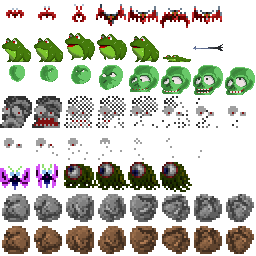
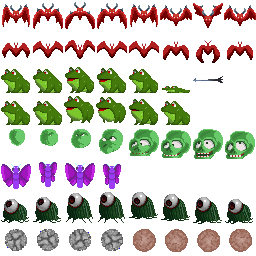
小エネミーの差し替え

diff --git a/Solution/AceLiveMonitor/EnemyTreeNuts.cpp b/Solution/AceLiveMonitor/EnemyTreeNuts.cpp
@@ -45,7 +45,7 @@ void EnemyTreeNuts::setSynchronousData( unsigned char type, int camera_pos ) con
 	switch ( _act ) {
 	case ACTION_FADE_IN:
 	{
-		const int ANIM[ ] = { 16, 17, 18, 19, 20, 21 };
+		const int ANIM[ ] = { 32, 33, 34, 35, 36, 37, 38, 39 };
 		int anim_size = sizeof( ANIM ) / sizeof( ANIM[ 0 ] );
 		int idx = getActCount( ) / WAIT_ANIM_TIME;
 		if ( idx >= anim_size ) {
@@ -56,7 +56,7 @@ void EnemyTreeNuts::setSynchronousData( unsigned char type, int camera_pos ) con
 		break;
 	case ACTION_MOVE:
 	{
-		const int ANIM[ ] = { 21, 22, 23, 22 };
+		const int ANIM[ ] = { 37, 38, 39, 38 };
 		int anim_size = sizeof( ANIM ) / sizeof( ANIM[ 0 ] );
 		data->addObject( area, type, ANIM[ getActCount( ) / WAIT_ANIM_TIME % anim_size ], attribute, x, y );
 	}

diff --git a/Solution/AceLiveMonitor/EnemyFlog.cpp b/Solution/AceLiveMonitor/EnemyFlog.cpp
@@ -1,8 +1,8 @@
 #include "EnemyFlog.h"
 #include "SynchronousData.h"
 
-const int WAIT_ANIM_TIME = 6;
-const int JUMP_TIME = WAIT_ANIM_TIME * 5;
+const int WAIT_ANIM_TIME = 5;
+const int JUMP_TIME = WAIT_ANIM_TIME * 6;
 const int MAX_HP = 2;
 const int JUMP_POWER = -5;
 const int MOVE_SPEED = 2;
@@ -31,7 +31,7 @@ void EnemyFlog::act( ) {
 
 void EnemyFlog::setSynchronousData( unsigned char type, int camera_pos ) const {
 	const int ANIM[ ] = {
-		8, 9, 10, 11, 12
+		24, 25, 26, 27, 28, 29
 	};
 	int anim_size = sizeof( ANIM ) / sizeof( ANIM[ 0 ] );
 	

diff --git a/Solution/AceLiveMonitor/EnemyStone.cpp b/Solution/AceLiveMonitor/EnemyStone.cpp
@@ -1,7 +1,7 @@
 #include "EnemyStone.h"
 #include "SynchronousData.h"
 
-static const int WAIT_ANIM_TIME = 5;
+static const int WAIT_ANIM_TIME = 2;
 static const int MOVE_SPEED = 5;
 static const int MAX_HP = 2;
 
@@ -27,7 +27,7 @@ void EnemyStone::act( ) {
 
 void EnemyStone::setSynchronousData( unsigned char type, int camera_pos ) const {
 	const int ANIM[ ] = {
-		48, 49, 50, 51, 52, 53, 54, 55
+		56, 57, 58, 59
 	};
 	int anim_size = sizeof( ANIM ) / sizeof( ANIM[ 0 ] );
 	

diff --git a/Solution/AceLiveMonitor/EnemyArcherAttack.cpp b/Solution/AceLiveMonitor/EnemyArcherAttack.cpp
@@ -31,5 +31,5 @@ void EnemyArcherAttack::setSynchronousData( unsigned char type, int camera_pos )
 		attribute |= SynchronousData::ATTRIBUTE_REVERSE;
 	}
 	SynchronousDataPtr data( SynchronousData::getTask( ) );
-	data->addObject( area, type, 14, attribute, x, y );
+	data->addObject( area, type, 22, attribute, x, y );
 }

diff --git a/Solution/AceLiveMonitor/EnemyHandAttack.cpp b/Solution/AceLiveMonitor/EnemyHandAttack.cpp
@@ -21,7 +21,7 @@ void EnemyHandAttack::act( ) {
 
 void EnemyHandAttack::setSynchronousData( unsigned char type, int camera_pos ) const {
 	const int ANIM[ ] = {
-		56, 57, 58, 59, 60, 61, 62, 63
+		60, 61, 62, 63
 	};
 	int anim_size = sizeof( ANIM ) / sizeof( ANIM[ 0 ] );
 	Vector pos = getPos( );

diff --git a/Solution/AceLiveMonitor/EnemyMoth.cpp b/Solution/AceLiveMonitor/EnemyMoth.cpp
@@ -29,7 +29,7 @@ void EnemyMoth::act( ) {
 }
 
 void EnemyMoth::setSynchronousData( unsigned char type, int camera_pos ) const {
-	int ANIM[ ] = { 40, 41 };
+	int ANIM[ ] = { 40, 41, 42, 43 };
 	int anim_size = sizeof( ANIM ) / sizeof( ANIM[ 0 ] );
 	
 	Vector pos = getPos( );

diff --git a/Solution/AceLiveMonitor/EnemyEyeDaemon.cpp b/Solution/AceLiveMonitor/EnemyEyeDaemon.cpp
@@ -45,7 +45,7 @@ void EnemyEyeDaemon::act( ) {
 
 void EnemyEyeDaemon::setSynchronousData( unsigned char type, int camera_pos ) const {
 	const int ANIM[ ] = {
-		42, 43, 44, 45
+		48, 49, 50, 51, 52, 53, 54, 55
 	};
 	int anim_size = sizeof( ANIM ) / sizeof( ANIM[ 0 ] );
 	

diff --git a/Solution/AceLiveMonitor/EnemyBat.cpp b/Solution/AceLiveMonitor/EnemyBat.cpp
@@ -26,7 +26,7 @@ void EnemyBat::act( ) {
 
 void EnemyBat::setSynchronousData( unsigned char type, int camera_pos ) const {
 	const int ANIM[ ] = {
-		3, 4, 5, 6
+		0, 1, 2, 3, 4, 5, 6, 7
 	};
 	int anim_size = sizeof( ANIM ) / sizeof( ANIM[ 0 ] );
 	
